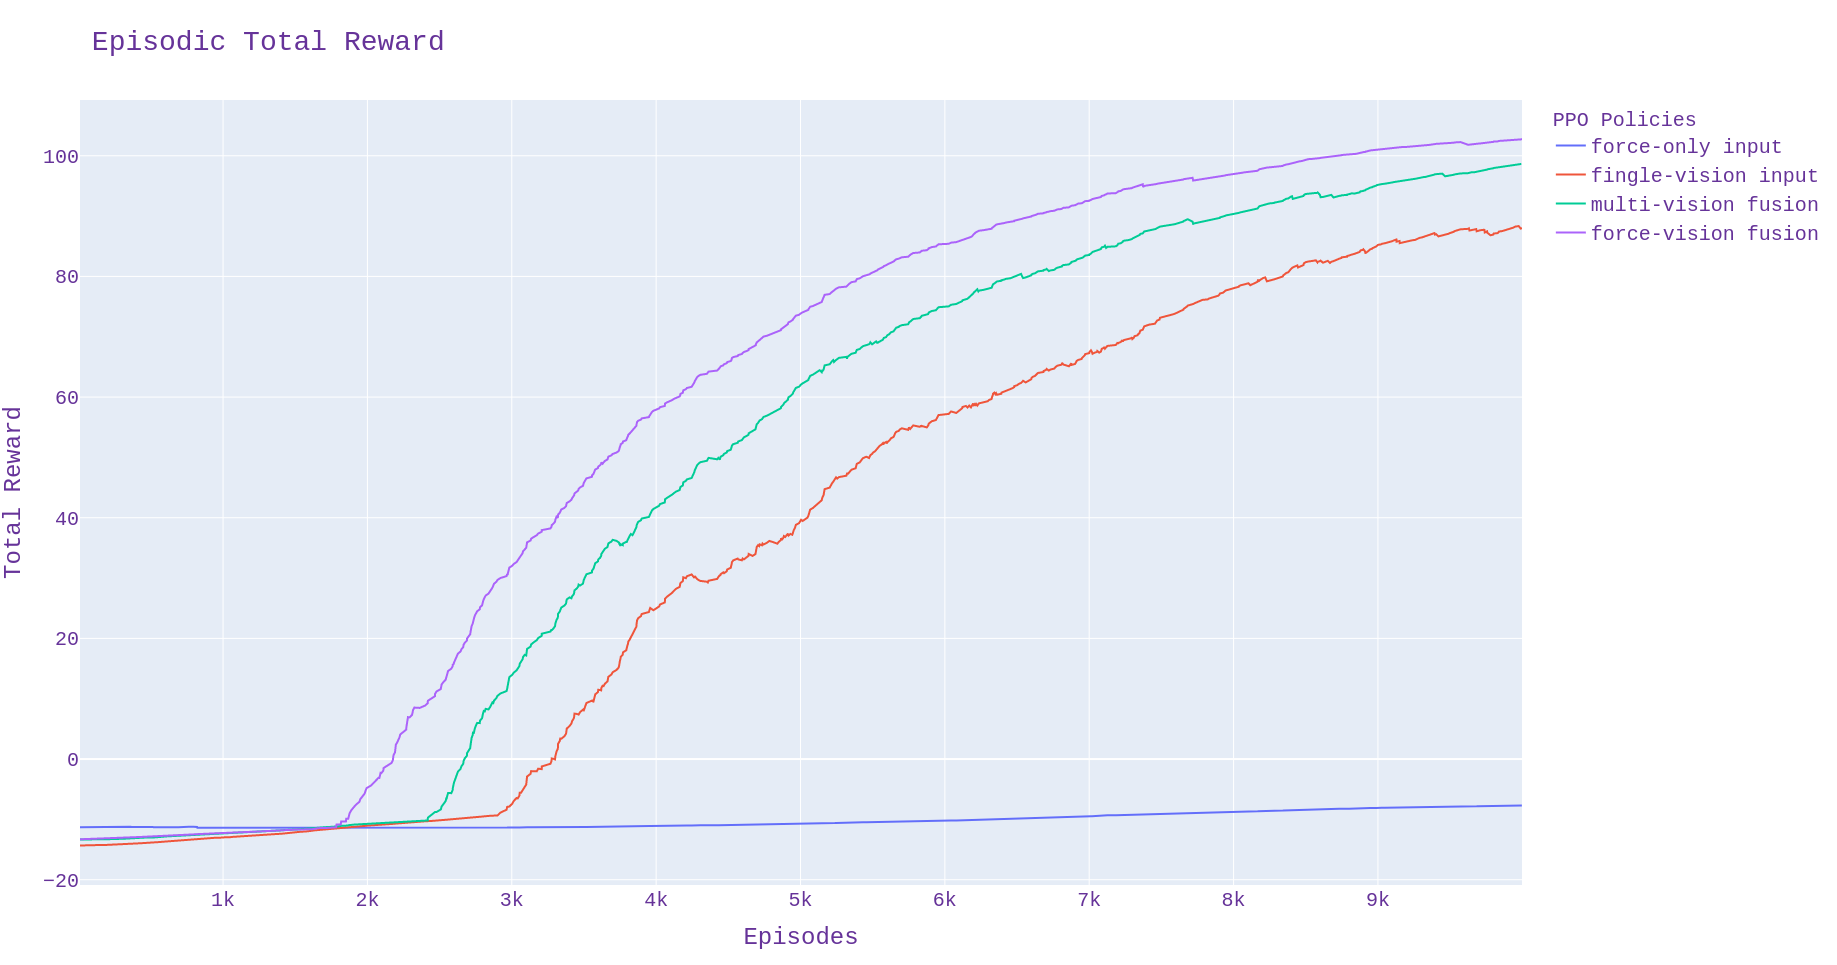
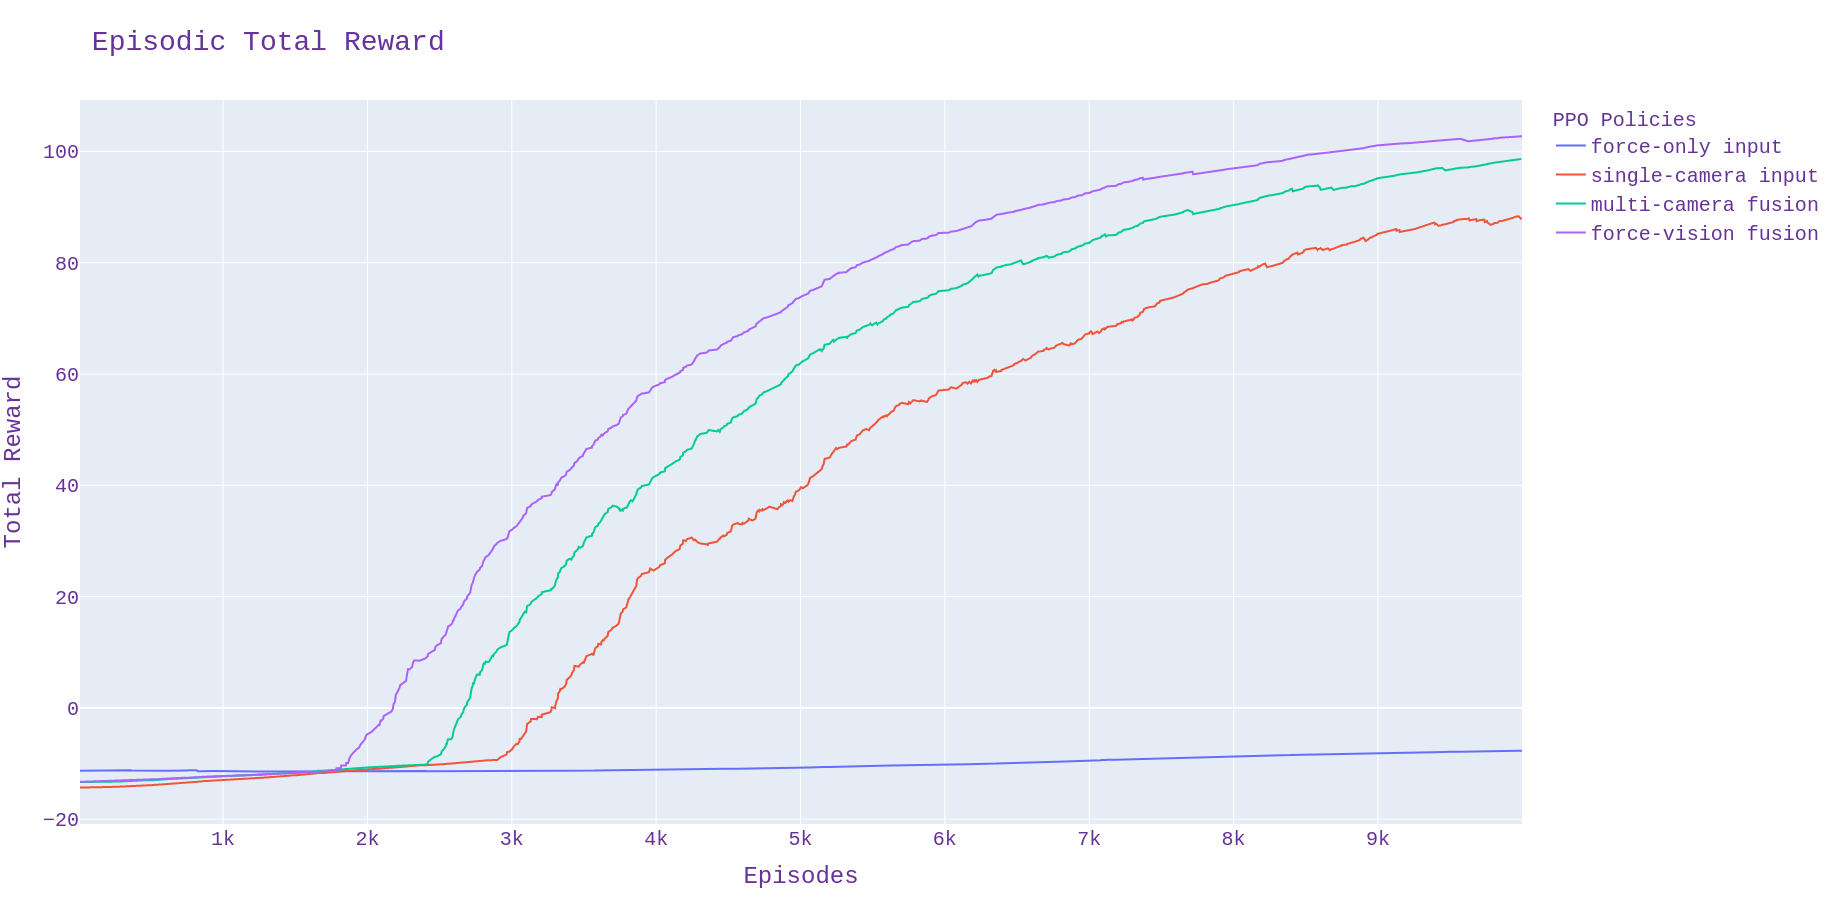
add figures, corrent typo

diff --git a/do_learning/scripts/task_pull/csv_plot.py b/do_learning/scripts/task_pull/csv_plot.py
@@ -36,8 +36,8 @@ def plot_training_performance():
 
     fig = go.Figure()
     fig.add_trace(go.Scatter(x = df0['Step'], y = smoothExponential(df0['Value'],0.996),name='force-only input'))
-    fig.add_trace(go.Scatter(x = df1['Step'], y = smoothExponential(df1['Value'],0.996),name='fingle-vision input'))
-    fig.add_trace(go.Scatter(x = df2['Step'], y = smoothExponential(df2['Value'],0.996),name='multi-vision fusion'))
+    fig.add_trace(go.Scatter(x = df1['Step'], y = smoothExponential(df1['Value'],0.996),name='single-camera input'))
+    fig.add_trace(go.Scatter(x = df2['Step'], y = smoothExponential(df2['Value'],0.996),name='multi-camera fusion'))
     fig.add_trace(go.Scatter(x = df3['Step'], y = smoothExponential(df3['Value'],0.996),name='force-vision fusion'))
     fig.update_layout(
         title="Episodic Total Reward",
@@ -59,8 +59,8 @@ def plot_generalize_capability():
     y3 = [100, 98, 100, 100, 83, 53]
 
     fig = go.Figure()
-    fig.add_trace(go.Scatter(x = x, y = y1, name='fingle-vision input'))
-    fig.add_trace(go.Scatter(x = x, y = y2, name='multi-vision fusion'))
+    fig.add_trace(go.Scatter(x = x, y = y1, name='single-camera input'))
+    fig.add_trace(go.Scatter(x = x, y = y2, name='multi-camera fusion'))
     fig.add_trace(go.Scatter(x = x, y = y3, name='force-vision fusion'))
     fig.update_layout(
         title="Policy Generalization",

diff --git a/do_learning/scripts/task_pull/test_statics.md b/do_learning/scripts/task_pull/test_statics.md
@@ -24,7 +24,7 @@ Conclusion: vision-force sensor fusion > multiple cameras > single camera
 ### policy evaluation (in the environment for training)
 | \ | success rate | average steps | average max-force (N) | least step case trajectory cost (robot+sidebar) (m) |
 | :----: | :----: | :----: | :----: | :----: |
-| single camera input | 100% | 16 (13-20) | 148 (30 - 463) | 0.835 + 1.247 |
+| single-camera input | 100% | 16 (13-20) | 148 (30 - 463) | 0.835 + 1.247 |
 | multi-camera fusion | 98% |13 (10-47) | 191 (19 - 756) | 0.893 + 1.108 |
 | force-vision fusion | 100% |11 (10-13) | 182 (26-826) | 0.571 + 1.015 |
 
